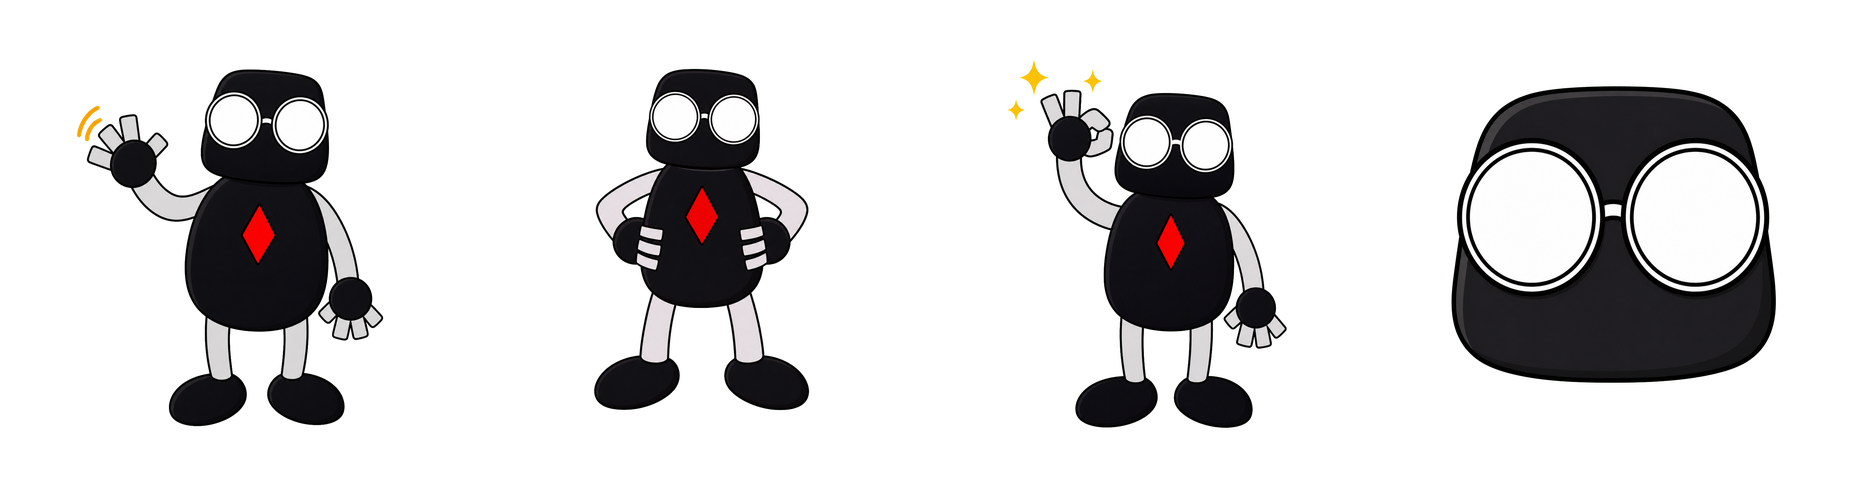
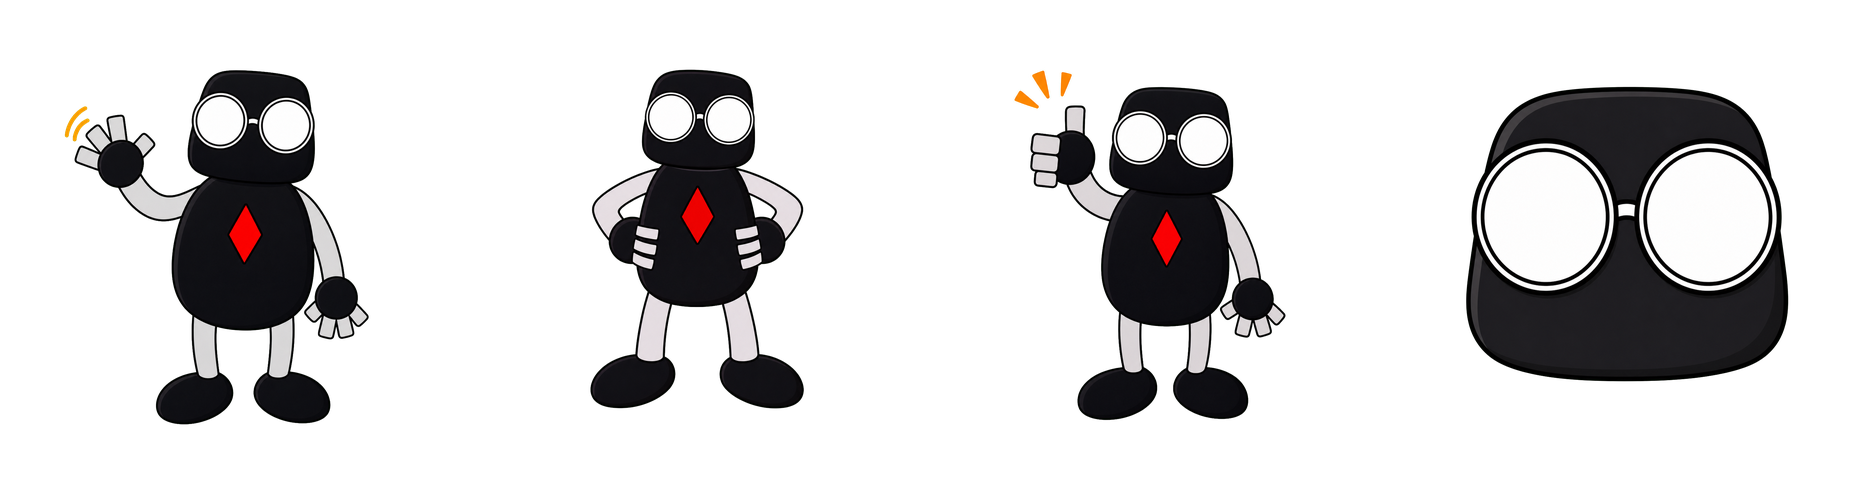
fix: drop the OK sign from the character lock sheet
The mandatory canonical lock included the OK sticker, which the prompt
bans as a grip. Rebuild the strip from wave, hands-on-hips, thumbs-up,
and face so attached references only show allowed hands.

diff --git a/docs/skills/tkrobot-illustrations/references/tkrobot-sketch-mode.md b/docs/skills/tkrobot-illustrations/references/tkrobot-sketch-mode.md
@@ -15,7 +15,7 @@ On every `image_gen` call, pass these lock sheets as reference images, in this
 order:
 
 1. `assets/character-lock-canonical.png` — anatomy and colours from the sticker
-   masters (wave, hands-on-hips, OK, face).
+   masters (wave, hands-on-hips, thumbs-up, face). No OK sign.
 2. `assets/character-lock-sketch.png` — the same character in thin-line form.
 3. `assets/hand-lock-canonical.png` — open, point, thumbs-up (palm-closed),
    and closed-at-rest. Also `docs/references/hand-size-anchor.png`.

diff --git a/docs/skills/tkrobot-illustrations/references/prompt-template.md b/docs/skills/tkrobot-illustrations/references/prompt-template.md
@@ -6,6 +6,7 @@ Attach these lock sheets as reference images on the same call
 (`reference_image_paths` or the equivalent), in this order:
 
 1. `docs/skills/tkrobot-illustrations/assets/character-lock-canonical.png`
+   (wave, hands-on-hips, thumbs-up, face — not the OK sticker)
 2. `docs/skills/tkrobot-illustrations/assets/character-lock-sketch.png`
 3. `docs/skills/tkrobot-illustrations/assets/hand-lock-canonical.png`
 4. `docs/skills/tkrobot-illustrations/assets/hand-lock-sketch.png`

diff --git a/docs/skills/tkrobot-illustrations/assets/README.md b/docs/skills/tkrobot-illustrations/assets/README.md
@@ -3,7 +3,7 @@
 ## Character lock (attach every time)
 
 - `character-lock-canonical.png` — four sticker masters on white (wave,
-  hands-on-hips, OK, face). Anatomy and colours.
+  hands-on-hips, thumbs-up, face). Anatomy and colours. No OK sign.
 - `character-lock-sketch.png` — the same mascot in thin-line sketch form.
 
 ## Hand lock (attach every time)
